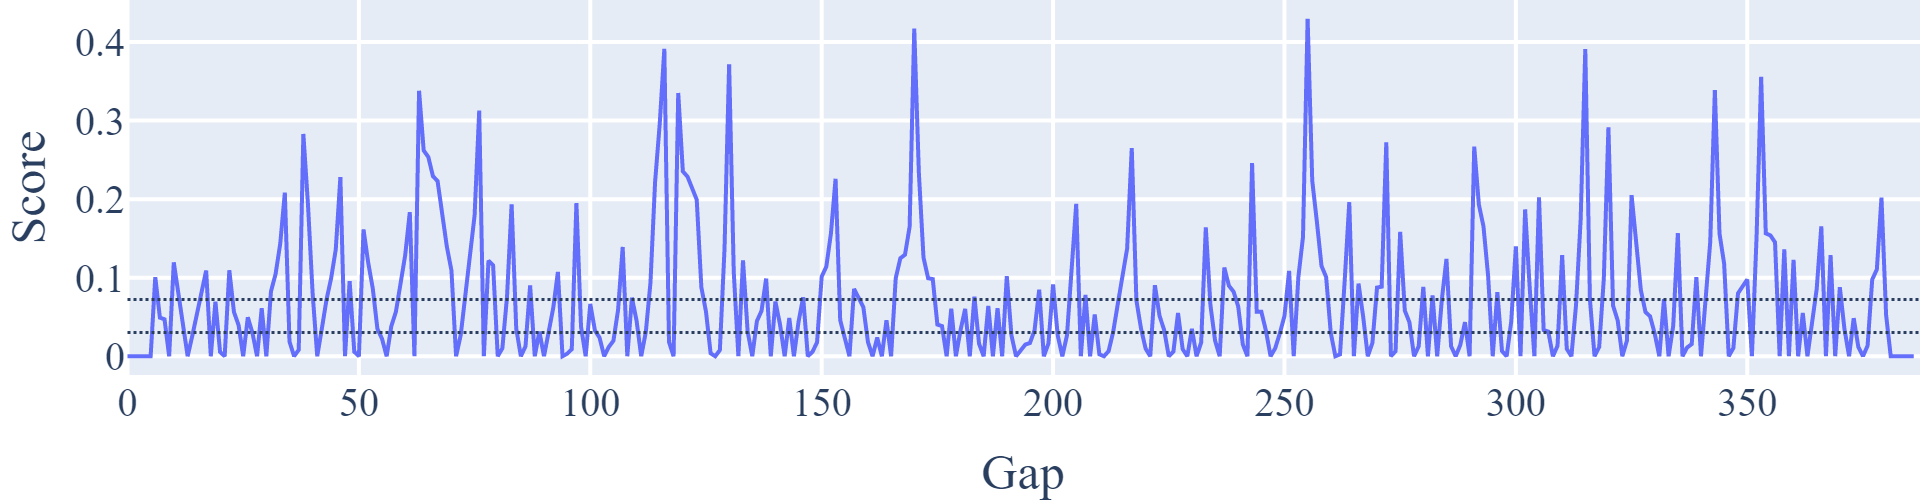
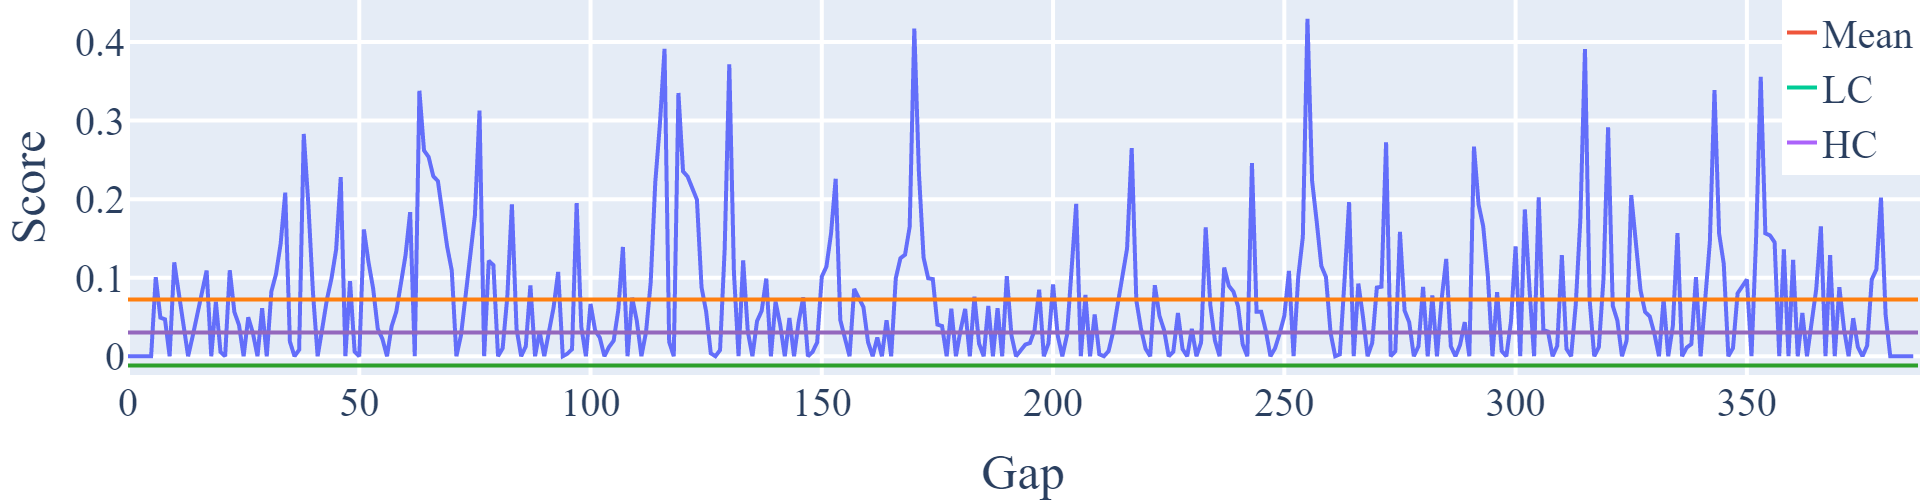
more plots for paper created

diff --git a/Images in paper/TextTiling/texttiling_experiments_and_plots.py b/Images in paper/TextTiling/texttiling_experiments_and_plots.py
@@ -4,6 +4,7 @@ import os
 import pandas as pd
 import statistics
 from nltk.corpus import stopwords
+import plotly
 import plotly.express as px
 import plotly.graph_objects as go
 import plotly.io as pio
@@ -66,66 +67,137 @@ for column in df:
 data = {"Start time": boundaries_time, "Keywords": keywords}
 keywords_table = pd.DataFrame(data=data).to_dict("records")
 
-print(statistics.mean(depth_scores))
-print(statistics.stdev(depth_scores))
-
-fig = px.histogram(depth_scores)
-fig.show()
-
 fig = go.Figure()
 fig["layout"] = go.Layout(margin={"t": 0, "b": 0, "r": 0, "l": 0})
 
-# plot texttiling_depth_score.png
-fig.add_trace(go.Scatter(
-    x=list(range(len(depth_scores))),
-    y=depth_scores,
-    mode="lines",
-    line=dict(width=4)
-))
-fig.add_shape(
-    type="line",
-    x0=0,
-    y0=statistics.mean(depth_scores),
-    x1=len(depth_scores),
-    y1=statistics.mean(depth_scores),
-    line=dict(
-        width=3,
-        dash="dot",
-))
-fig.add_shape(
-    type="line",
-    x0=0,
-    y0=statistics.mean(depth_scores) - statistics.stdev(depth_scores)/2,
-    x1=len(depth_scores),
-    y1=statistics.mean(depth_scores) - statistics.stdev(depth_scores)/2,
-    line=dict(
-        width=3,
-        dash="dot",
-))
-axes_title_font = dict(family="Times", size=50)
-axes_tick_font = dict(family="Times", size=40)
-space_between_axis_label_and_ticks = 40
-grid_line_width = 4
-fig.update_xaxes(
-    title="Gap",
-    title_font=axes_title_font,
-    title_standoff=space_between_axis_label_and_ticks,
-    zerolinewidth=grid_line_width,
-    gridwidth=grid_line_width,
-    tickfont=axes_tick_font
-)
-fig.update_yaxes(
-    title="Score",
-    title_font=axes_title_font,
-    title_standoff=space_between_axis_label_and_ticks,
-    zerolinewidth=grid_line_width,
-    gridwidth=grid_line_width,
-    tickfont=axes_tick_font,
-    tick0=0,
-    dtick=0.1
-)
-# fig.write_image("./Algorithms/texttiling_cutoff.png")
+# # plot texttiling_histogram.png
+# fig.add_trace(go.Histogram(
+#     x=depth_scores,
+#     histnorm="probability"
+# ))
+# axes_title_font = dict(family="Times", size=50)
+# axes_tick_font = dict(family="Times", size=40)
+# space_between_axis_label_and_ticks = 40
+# grid_line_width = 4
+# fig.update_xaxes(
+#     title="Score",
+#     title_font=axes_title_font,
+#     title_standoff=space_between_axis_label_and_ticks,
+#     zerolinewidth=grid_line_width,
+#     gridwidth=grid_line_width,
+#     tickfont=axes_tick_font
+# )
+# fig.update_yaxes(
+#     title="Probability",
+#     title_font=axes_title_font,
+#     title_standoff=space_between_axis_label_and_ticks,
+#     zerolinewidth=grid_line_width,
+#     gridwidth=grid_line_width,
+#     tickfont=axes_tick_font,
+#     tick0=0,
+#     dtick=0.1
+# )
+# fig.write_image("./Images in paper/TextTiling/texttiling_histogram.png")
 
+# # plot texttiling_cutoff.png
+# fig.add_trace(go.Scatter(
+#     x=list(range(len(depth_scores))),
+#     y=depth_scores,
+#     mode="lines",
+#     line=dict(width=4),
+#     showlegend = False
+# ))
+# fig.add_trace(go.Scatter(
+#     x=[0],
+#     y=[0],
+#     mode="lines",
+#     line=dict(
+#         width=4,
+#     ),
+#     name = "Mean"
+# ))
+# fig.add_trace(go.Scatter(
+#     x=[0],
+#     y=[0],
+#     mode="lines",
+#     line=dict(
+#         width=4,
+#     ),
+#     name = "LC"
+# ))
+# fig.add_trace(go.Scatter(
+#     x=[0],
+#     y=[0],
+#     mode="lines",
+#     line=dict(
+#         width=4,
+#     ),
+#     name = "HC"
+# ))
+# fig.add_shape(
+#     type="line",
+#     x0=0,
+#     y0=statistics.mean(depth_scores),
+#     x1=len(depth_scores),
+#     y1=statistics.mean(depth_scores),
+#     line=dict(
+#         width=4,
+#         color="#ff7f0e"
+#     )
+# )
+# fig.add_shape(
+#     type="line",
+#     x0=0,
+#     y0=statistics.mean(depth_scores) - statistics.stdev(depth_scores),
+#     x1=len(depth_scores),
+#     y1=statistics.mean(depth_scores) - statistics.stdev(depth_scores),
+#     line=dict(
+#         width=4,
+#         color="#2ca02c",
+#     )
+# )
+# fig.add_shape(
+#     type="line",
+#     x0=0,
+#     y0=statistics.mean(depth_scores) - statistics.stdev(depth_scores)/2,
+#     x1=len(depth_scores),
+#     y1=statistics.mean(depth_scores) - statistics.stdev(depth_scores)/2,
+#     line=dict(
+#         width=4,
+#         color="#9467bd",
+#     )
+# )
+# axes_title_font = dict(family="Times", size=50)
+# axes_tick_font = dict(family="Times", size=40)
+# space_between_axis_label_and_ticks = 40
+# grid_line_width = 4
+# fig.update_layout(
+#     legend=dict(
+#         yanchor="top",
+#         xanchor="right",
+#         x=1
+#     ),
+#     font=axes_tick_font
+# )
+# fig.update_xaxes(
+#     title="Gap",
+#     title_font=axes_title_font,
+#     title_standoff=space_between_axis_label_and_ticks,
+#     zerolinewidth=grid_line_width,
+#     gridwidth=grid_line_width,
+#     tickfont=axes_tick_font
+# )
+# fig.update_yaxes(
+#     title="Score",
+#     title_font=axes_title_font,
+#     title_standoff=space_between_axis_label_and_ticks,
+#     zerolinewidth=grid_line_width,
+#     gridwidth=grid_line_width,
+#     tickfont=axes_tick_font,
+#     tick0=0,
+#     dtick=0.1
+# )
+# fig.write_image("./Images in paper/TextTiling/texttiling_cutoff.png")
 
 # # plot texttiling_kX.png
 # parameters = [5, 10, 20]
